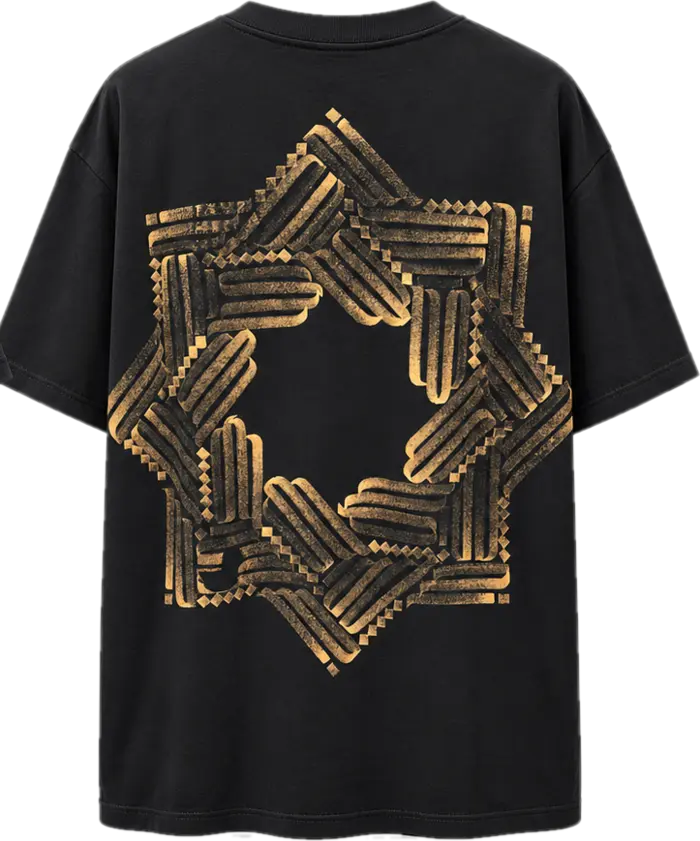
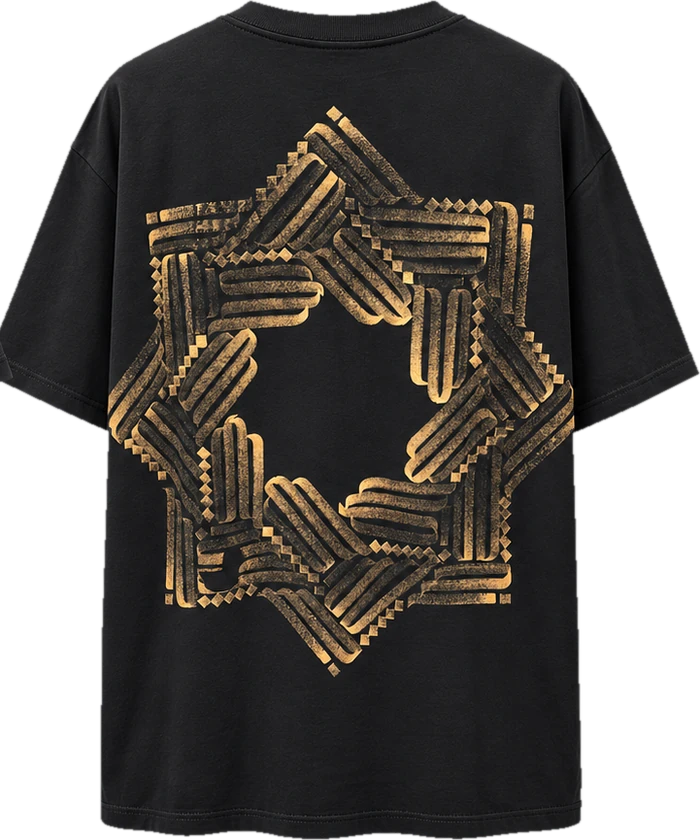
Recorte limpio de la camiseta, sin halo del fondo
Claude-Session: https://claude.ai/code/session_011CMcgefDj6GCrDsvzXP5ew

diff --git a/js/armario.js b/js/armario.js
@@ -217,7 +217,7 @@ const LOGO = '../img/logo-ov.svg';
   const contra = new THREE.DirectionalLight('#9fb4ff', .25); contra.position.set(-3, 3, -4); scene.add(contra);
 
   // ---------- Camisetas ----------
-  const ANCHO = 1, ALTO_T = 1.206; // tamaño de la camiseta (proporción de las fotos)
+  const ANCHO = 1, ALTO_T = 1.2; // tamaño de la camiseta (proporción de las fotos)
   const CUELLO = -.105; // altura del borde del cuello respecto al gancho: la percha sale por dentro del cuello
   const forma = (g, s) => {
     g.beginPath();
@@ -283,7 +283,7 @@ const LOGO = '../img/logo-ov.svg';
     const percha3d = new THREE.Mesh(geoPercha, percha); percha3d.castShadow = true; giro.add(percha3d);
     const hacerCara = (foto, espalda, geo) => {
       const map = foto ? texturaFoto(foto) : texturaCamiseta(c.tono, espalda);
-      const mat = new THREE.MeshStandardMaterial({ map, alphaTest: .5, roughness: .95, side: THREE.FrontSide });
+      const mat = new THREE.MeshStandardMaterial({ map, transparent: true, alphaTest: .3, roughness: .95, side: THREE.FrontSide });
       const m = new THREE.Mesh(geo, mat);
       m.customDepthMaterial = new THREE.MeshDepthMaterial({ depthPacking: THREE.RGBADepthPacking, map, alphaTest: .5 });
       m.castShadow = true; m.receiveShadow = true;
